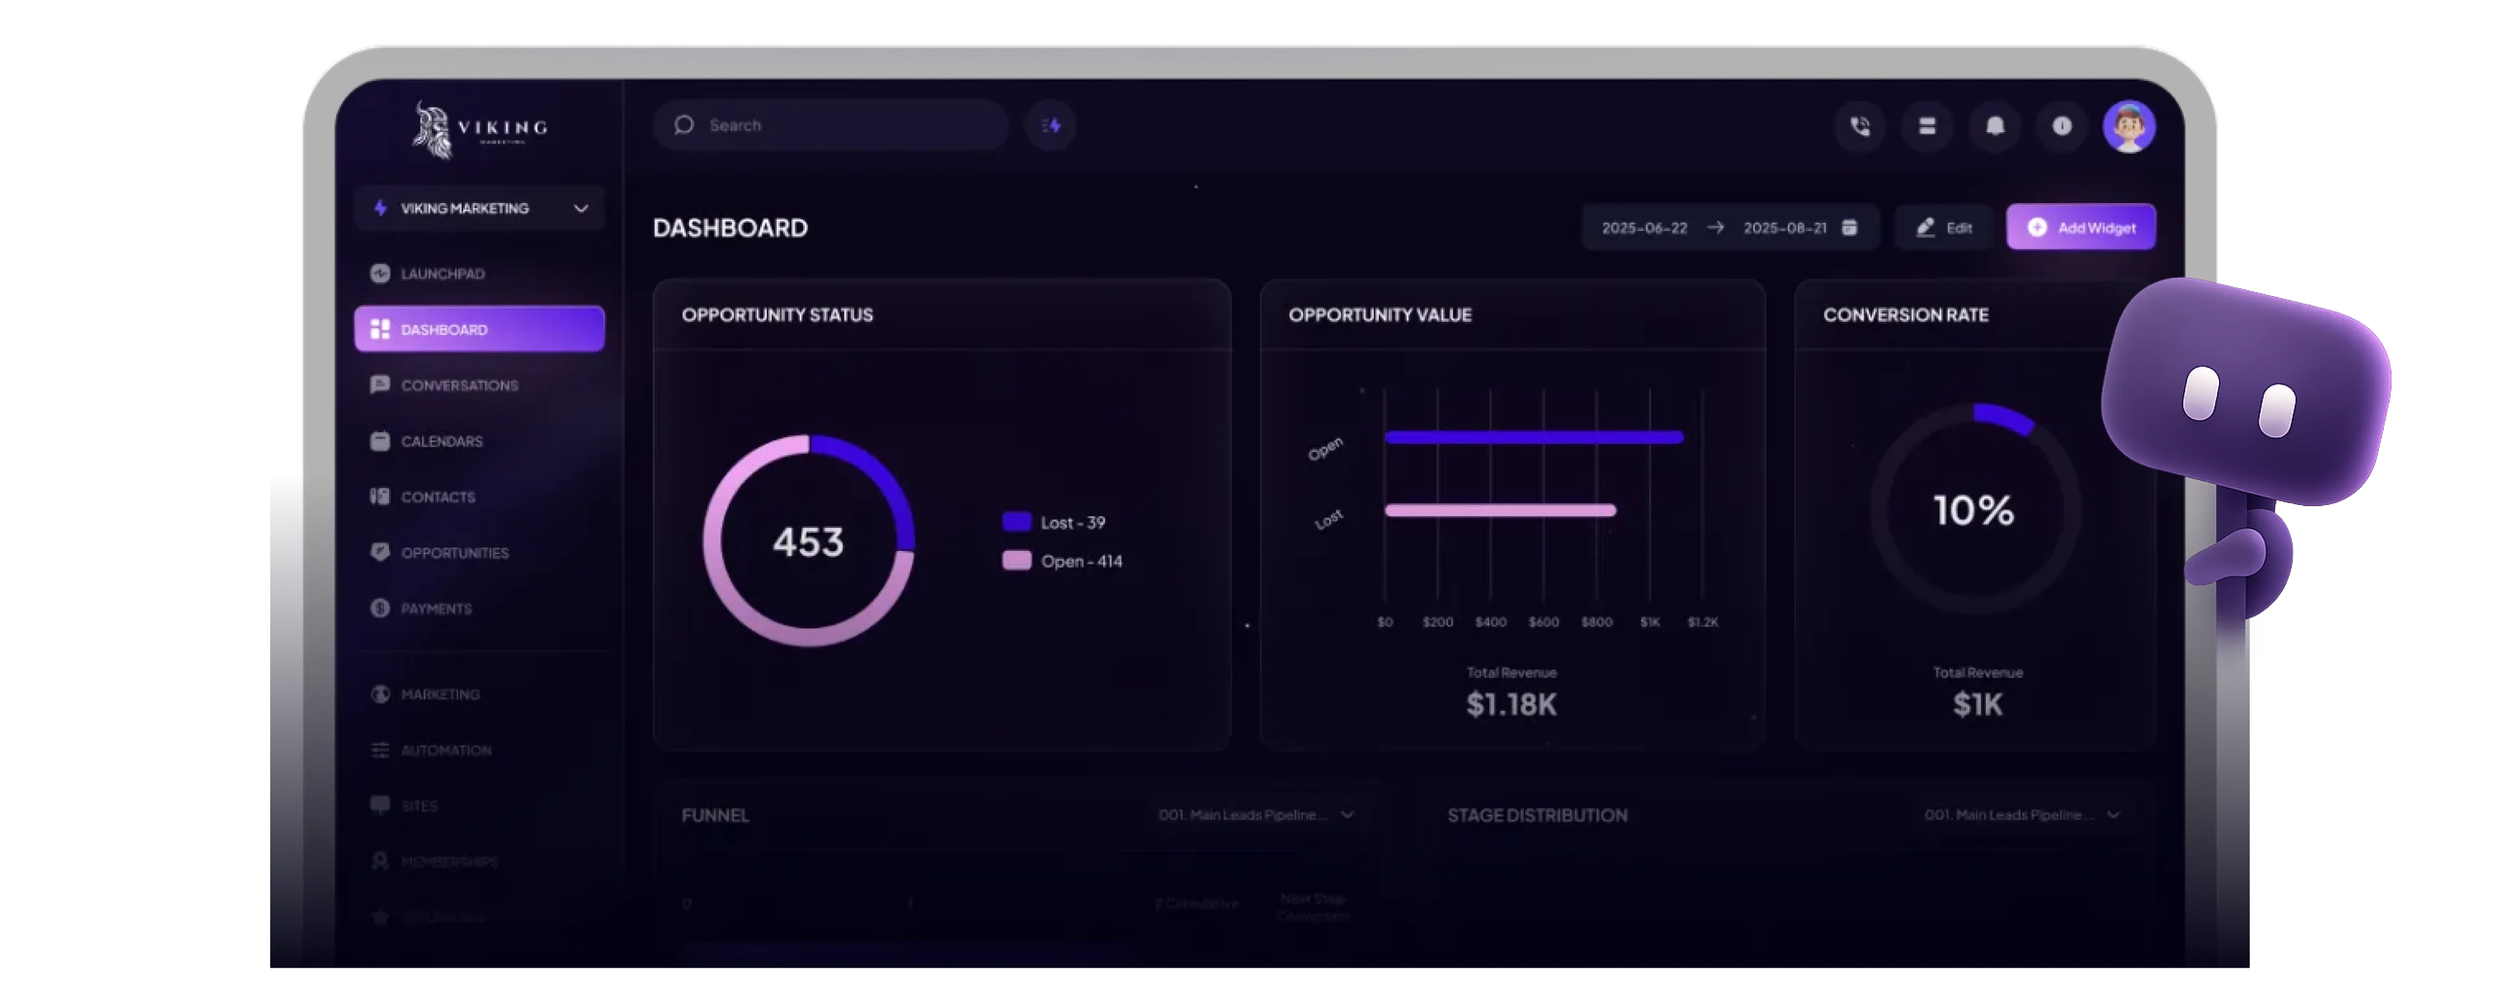
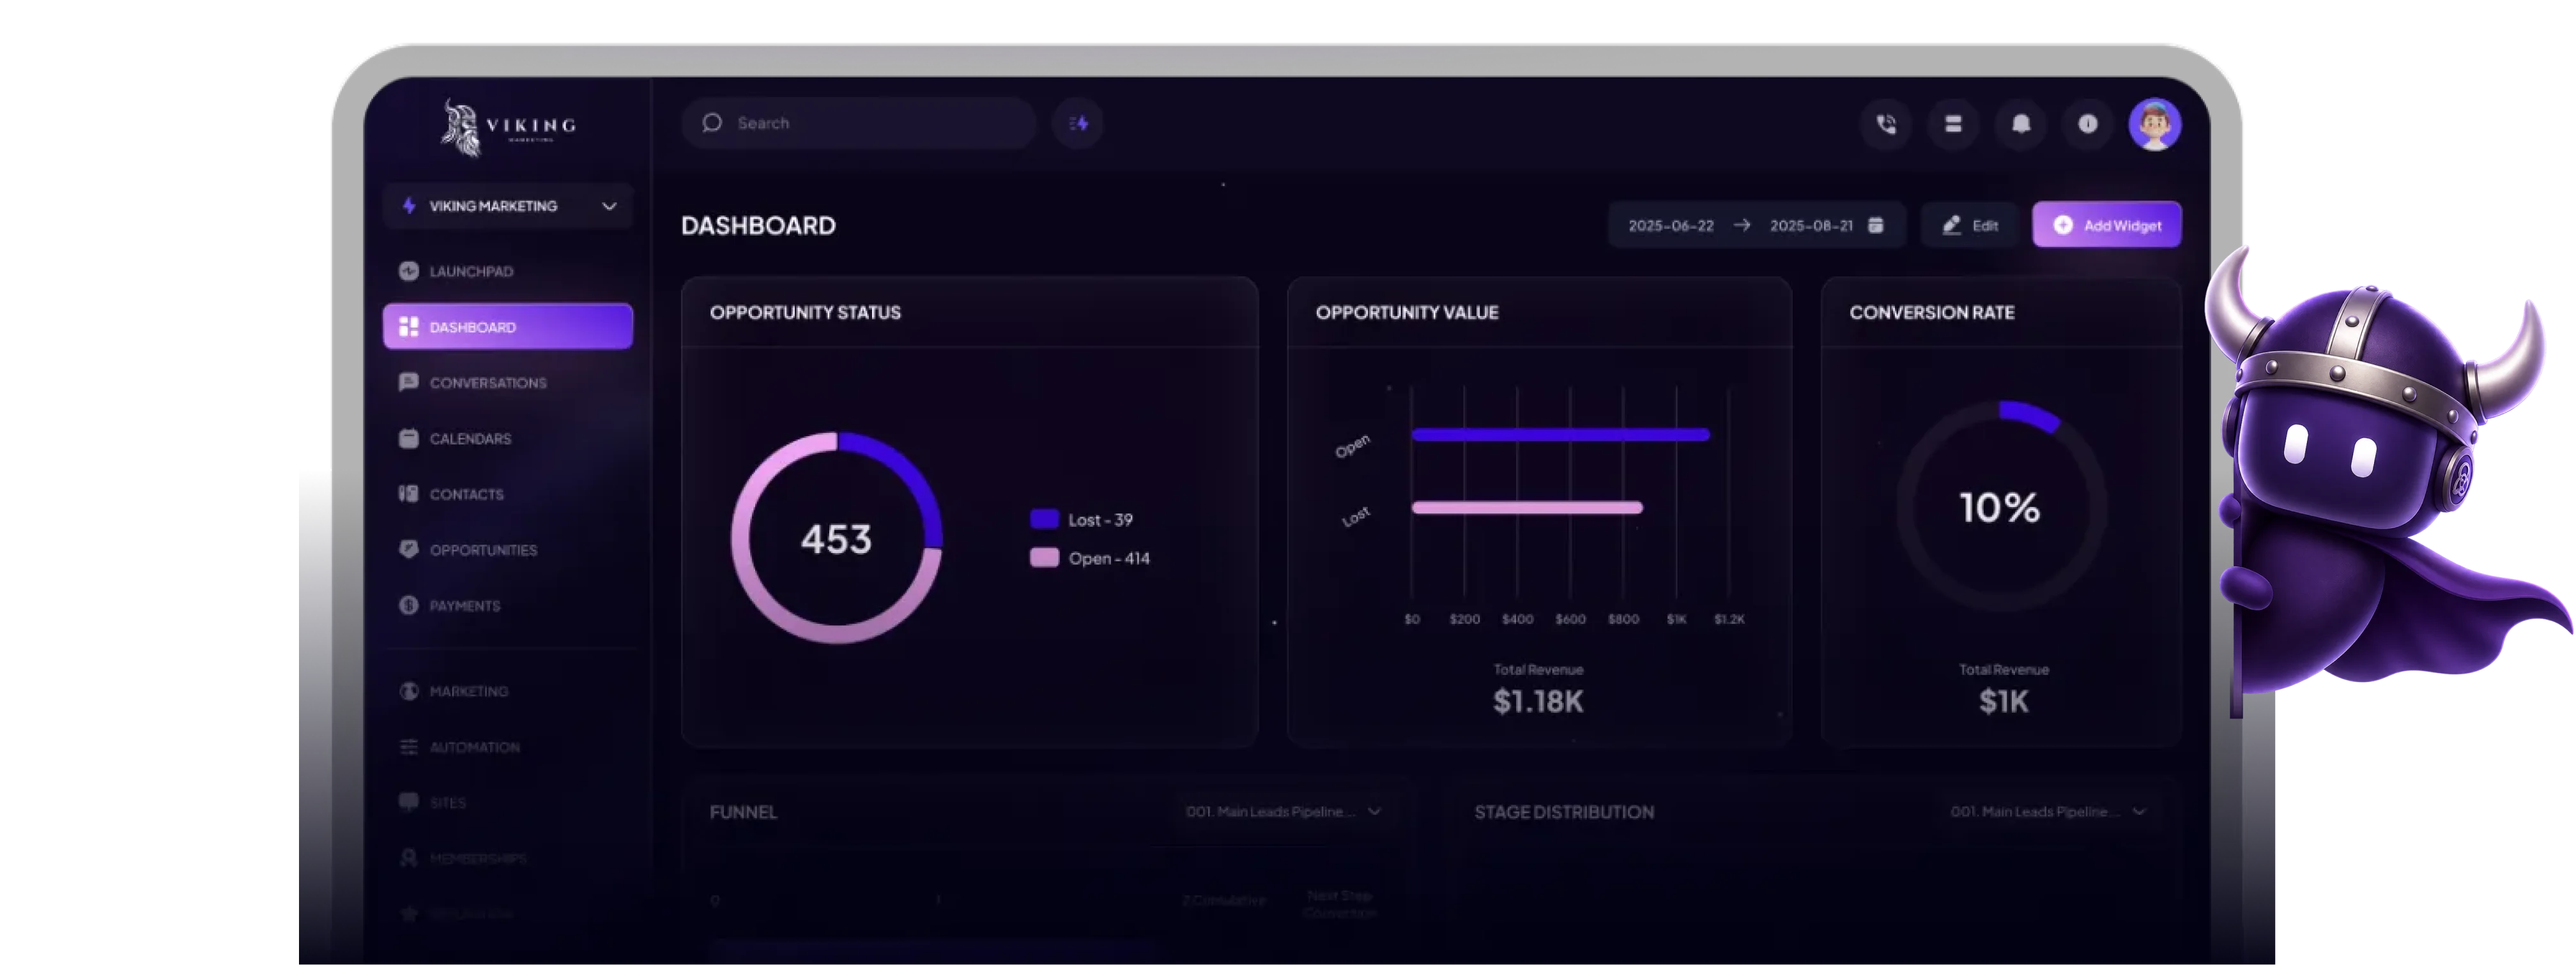
Update the hero image to the Viking mascot render
Swaps in the supplied Background2.png, which replaces the plain rounded bot
with the full Viking mascot (horned helmet and cape) alongside the same
dashboard UI.

Used unmodified at its original 4032x1530 - no crop, no resize - and the
markup's intrinsic dimensions updated to match the new 2.635 aspect.

diff --git a/src/app/(site)/page.tsx b/src/app/(site)/page.tsx
@@ -391,14 +391,14 @@ export default function HomePage() {
                 className="w-[100vw] min-w-[620px] max-w-none shrink-0 -translate-y-[68%] md:min-w-[1200px]"
               />
             </span>
-            {/* Supplied Hero Image.png, used unmodified at its original
-                3942x1554 - no crop, no resize. Ships with its own device
+            {/* Supplied Background2.png, used unmodified at its original
+                4032x1530 - no crop, no resize. Ships with its own device
                 bezel and transparent surround, so no card border/radius. */}
             <Image
               src="/images/hero-image.webp"
               alt="Viking Marketing CRM dashboard showing opportunity status, opportunity value, and conversion rate for a local business"
-              width={3942}
-              height={1554}
+              width={4032}
+              height={1530}
               priority
               sizes="100vw"
               className="mx-auto w-full max-w-none"
